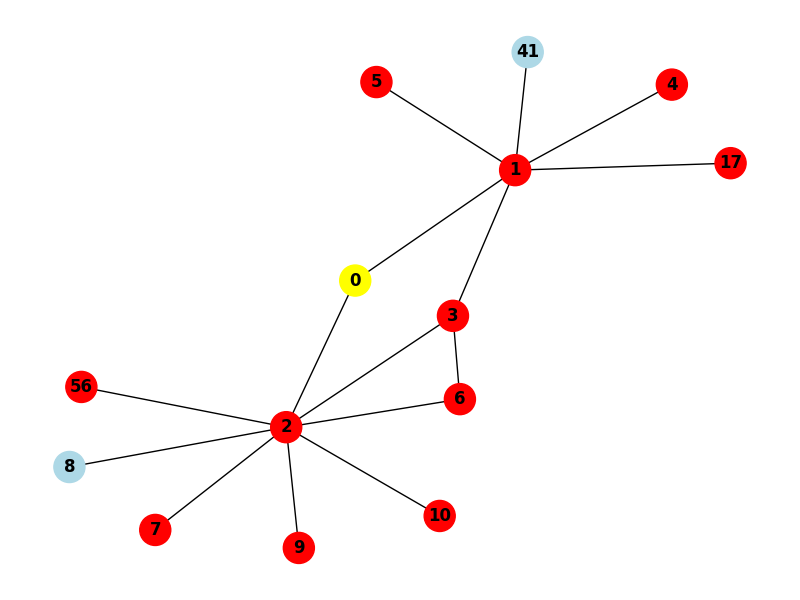
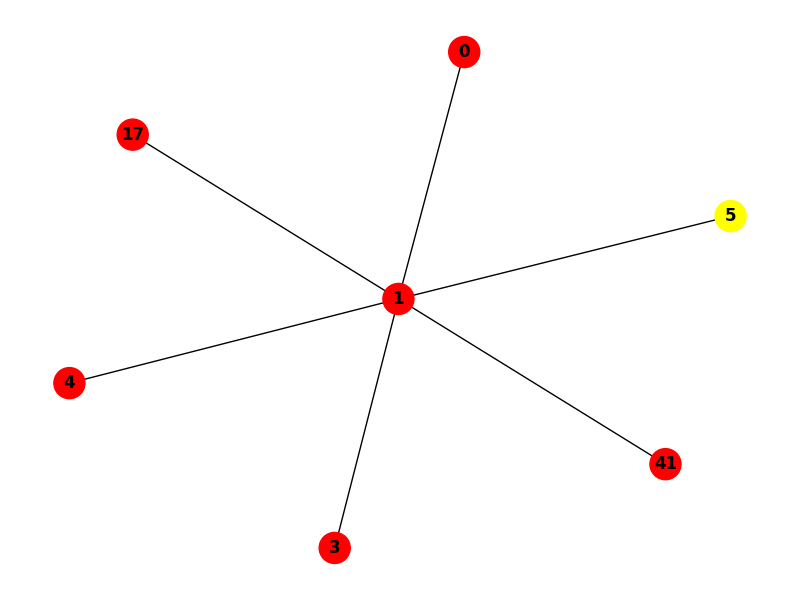
explicação apenas da mascara de teste

diff --git a/main.py b/main.py
@@ -1,7 +1,8 @@
 import pandas as pd
 import os
-from dataset_loader.load_dataset import load_dataset
+from dataset_loader.load_dataset import load_dataset, filter_explanation_by_mask
 from torch_geometric.datasets import TUDataset
+from torch_geometric.data import Data
 from torch_geometric.explain.metric import groundtruth_metrics
 from model.gcn import GCN
 from model.trainer import optimize_hyperparameters, train_one_model, get_model_checkpoint, save_model_checkpoint
@@ -16,21 +17,25 @@ import torch.nn.functional as F
 import torch
 
 # ========= Load Dataset =========
-# names: PubMed, CiteSeer, KarateClub, Mutag, Cora, synthetic
-dataset_name = "synthetic"
+# names: PubMed, CiteSeer, KarateClub, Mutag, Cora, synthetic, shapeggen
+dataset_name = "shapeggen"
 dataset, data = load_dataset(dataset_name)
+print(data)
 
 node_mask_type = "attributes"
 target = None
 explanation_type = "model"
 if explanation_type == "phenomenon":
     target = data.y
+index = 0
 
 # Model type: gcn or gatconv
 model_type = "gcn"
 
 # ========= Build & train model =========
-model, model_params = get_model_checkpoint(model_type, dataset_name, data.num_features, dataset.num_classes) if dataset_name != "synthetic" else (None, None)
+# model, model_params = get_model_checkpoint(model_type, dataset_name, data.num_features, dataset.num_classes) if dataset_name != "synthetic" else (None, None)
+model, model_params = None, None
+
 
 if model is None:
     print("Checkpoint não encontrado. Treinando modelo com melhores parâmetros...", flush=True)
@@ -52,8 +57,9 @@ else:
 print("\nGerando explicações...", flush=True)
 
 results = {}
-subgraph = data
-centralities = get_centralities(subgraph)
+subgraph = filter_explanation_by_mask(data, data.test_mask)
+print(subgraph)
+# centralities = get_centralities(subgraph)
 
 def calculate_metrics(explanation, centralities, subgraph, results, prefix):
     node_imp = filtered_node_importance(explanation, subgraph)
@@ -84,7 +90,7 @@ for i in range(1):
                                     node_mask_type=node_mask_type, 
                                     num_layers=model_params['layers'])
 
-    it_explanation = gnn_explainer(data.x, data.edge_index, index=None, target=target)
+    it_explanation = gnn_explainer(subgraph.x, subgraph.edge_index, index=None, target=target)
     
     metrics = get_fidelity_metrics(it_explanation, gnn_explainer)
     
@@ -96,29 +102,32 @@ for i in range(1):
         gnn_explainer_explanation = it_explanation
 
 # ========= Ground Truth Comparison =========
-if dataset_name == "synthetic" and gnn_explainer_explanation is not None:
+if dataset_name == "shapeggen" and gnn_explainer_explanation is not None:
     print("Calculando métricas de Ground Truth...", flush=True)
     
     # Se a máscara for de atributos (node_mask_type="attributes"), 
     # precisamos reduzir para nível de nó para comparar com o Ground Truth
-    node_mask = gnn_explainer_explanation.node_mask
-    if node_mask is not None and node_mask.dim() > 1:
-        node_mask = node_mask.mean(dim=-1)
+    explanation_node_mask = gnn_explainer_explanation.node_mask
+    gt_node_mask = subgraph.shape
+    if explanation_node_mask is not None and explanation_node_mask.dim() > 1:
+        explanation_node_mask = explanation_node_mask.mean(dim=-1)
     
-    gt_metrics = groundtruth_metrics(node_mask, data.node_mask)
+    gt_metrics = groundtruth_metrics(explanation_node_mask, gt_node_mask)
     print("Métricas de Ground Truth:", gt_metrics)
     
     # groundtruth_metrics retorna (accuracy, recall, precision, f1, auc)
-    acc, recall, prec, f1, auc = gt_metrics
+    acc, recall, prec, f1, auc, jaccard = gt_metrics
     results["gnn_gt_accuracy"] = acc
     results["gnn_gt_recall"] = recall
     results["gnn_gt_precision"] = prec
     results["gnn_gt_f1"] = f1
     results["gnn_gt_auc"] = auc
+    results["gnn_gt_jaccard"] = jaccard
 else:
     gt_metrics = None
 
-calculate_metrics(gnn_explainer_explanation, centralities, subgraph, results, "gnn")
+
+# calculate_metrics(gnn_explainer_explanation, centralities, subgraph, results, "gnn")
 
 # 2. PGExplainer
 # print("Running PGExplainer...", flush=True)
@@ -157,41 +166,41 @@ calculate_metrics(gnn_explainer_explanation, centralities, subgraph, results, "g
 # PGexplainer
 
 # Save results
-df = pd.DataFrame(results).T
-print("\n📊 Correlações & MI:", flush=True)
-print(df.round(4), flush=True)
+# df = pd.DataFrame(results).T
+# print("\n📊 Correlações & MI:", flush=True)
+# print(df.round(4), flush=True)
 
-results_base_folder = f"results/{dataset_name}"
-os.makedirs(results_base_folder, exist_ok=True)
+# results_base_folder = f"results/{dataset_name}"
+# os.makedirs(results_base_folder, exist_ok=True)
 
-# Generate unique run folder
-run_id = 1
-while True:
-    run_folder_name = f"run_{run_id:03d}"
-    run_folder_path = os.path.join(results_base_folder, run_folder_name)
-    if not os.path.exists(run_folder_path):
-        os.makedirs(run_folder_path)
-        break
-    run_id += 1
+# # Generate unique run folder
+# run_id = 1
+# while True:
+#     run_folder_name = f"run_{run_id:03d}"
+#     run_folder_path = os.path.join(results_base_folder, run_folder_name)
+#     if not os.path.exists(run_folder_path):
+#         os.makedirs(run_folder_path)
+#         break
+#     run_id += 1
 
-filename = f"correlations.csv"
-file_path = os.path.join(run_folder_path, filename)
+# filename = f"correlations.csv"
+# file_path = os.path.join(run_folder_path, filename)
 
-# Save
-df.to_csv(file_path, index=True)
-print("Salvo em:", file_path)
+# # Save
+# df.to_csv(file_path, index=True)
+# print("Salvo em:", file_path)
 
-with open(f"{run_folder_path}/fidelity.txt", "w") as f:
-    if gnn_explainer_fidelity_metrics:
-        for key, value in gnn_explainer_fidelity_metrics.items():
-            print(f"{key}: {value}", file=f)
-    # if gt_metrics:
-    #     print("\n--- Ground Truth Metrics ---", file=f)
-    #     for key, value in gt_metrics.items():
-    #         print(f"{key}: {value}", file=f)
-with open(f"{run_folder_path}/parameters.txt", "w") as f:
-    print(f"epochs: {gnn_explainer_epochs}", file=f)
-    print(f"lr: {gnn_explainer_lr}", file=f)
-    print(f"explanation_type: {explanation_type}", file=f)
-    print(f"model_type: {model_type}", file=f)
-    print(f"model_params: {model_params}", file=f)
+# with open(f"{run_folder_path}/fidelity.txt", "w") as f:
+#     if gnn_explainer_fidelity_metrics:
+#         for key, value in gnn_explainer_fidelity_metrics.items():
+#             print(f"{key}: {value}", file=f)
+#     # if gt_metrics:
+#     #     print("\n--- Ground Truth Metrics ---", file=f)
+#     #     for key, value in gt_metrics.items():
+#     #         print(f"{key}: {value}", file=f)
+# with open(f"{run_folder_path}/parameters.txt", "w") as f:
+#     print(f"epochs: {gnn_explainer_epochs}", file=f)
+#     print(f"lr: {gnn_explainer_lr}", file=f)
+#     print(f"explanation_type: {explanation_type}", file=f)
+#     print(f"model_type: {model_type}", file=f)
+#     print(f"model_params: {model_params}", file=f)

diff --git a/main0604.py b/main0604.py
@@ -1,6 +1,6 @@
 import pandas as pd
 import os
-from dataset_loader.load_dataset import load_dataset
+from dataset_loader.load_dataset import load_dataset, filter_explanation_by_mask
 from torch_geometric.datasets import TUDataset
 from torch_geometric.explain.metric import groundtruth_metrics
 from model.gcn import GCN
@@ -61,7 +61,10 @@ else:
 def visualize_subgraph(subgraph_data, target_index, node_importance, title, filename, threshold=0.1):
     # Print nodes and edges
     print(f"\n--- {title} ---")
-    nodes = subgraph_data.node_idx_original.tolist()
+    if hasattr(subgraph_data, 'node_idx_original'):
+        nodes = subgraph_data.node_idx_original.tolist()
+    else:
+        nodes = list(range(subgraph_data.num_nodes))
     print(f"Nodes ({len(nodes)}): {nodes}")
     
     # Get edges
@@ -81,13 +84,15 @@ def visualize_subgraph(subgraph_data, target_index, node_importance, title, file
     pos = nx.spring_layout(G, seed=42)
     
     node_colors = []
-    for node in nodes:
+    for i, node in enumerate(nodes):
         if node == target_index:
             node_colors.append('yellow')
-        elif node_importance[node] > threshold:
-            node_colors.append('red')
         else:
-            node_colors.append('lightblue')
+            val = node_importance[i] if len(node_importance) == len(nodes) else node_importance[node]
+            if val > threshold:
+                node_colors.append('red')
+            else:
+                node_colors.append('lightblue')
             
     plt.figure(figsize=(8, 6))
     nx.draw(G, pos, with_labels=True, node_color=node_colors, node_size=500, font_weight='bold')
@@ -100,8 +105,11 @@ def visualize_subgraph(subgraph_data, target_index, node_importance, title, file
 print("\nGerando explicações...", flush=True)
 
 results = {}
-subgraph = data
-centralities = get_centralities(subgraph)
+test_indices = data.test_mask.nonzero(as_tuple=True)[0]
+data_test = data
+# centralities = get_centralities(data_test)
+if index == 0 and len(test_indices) > 0:
+    index = test_indices[0].item()
 
 def calculate_metrics(explanation, centralities, subgraph, results, prefix):
     node_imp = filtered_node_importance(explanation, subgraph)
@@ -122,7 +130,8 @@ gnn_explainer_gt_metrics = None
 gnn_explainer_characterization_score = -1
 gnn_explainer_epochs = 500
 gnn_explainer_lr = 0.01
-shape_vector = (data.shape > 0).int() if getattr(data, "shape", None) is not None else None
+shape_vector = (data_test.shape > 0).int() if getattr(data_test, "shape", None) is not None else None
+
 for i in range(1):
     print(f"Rodando GNNExplainer {i+1}...", flush=True)
     gnn_explainer = get_explainer(  model,
@@ -135,7 +144,7 @@ for i in range(1):
                                     edge_mask_type=edge_mask_type,
                                     num_layers=model_params['layers'])
 
-    it_explanation = gnn_explainer(data.x, data.edge_index, index=index, target=target)
+    it_explanation = gnn_explainer(data_test.x, data_test.edge_index, index=index, target=target)
     metrics = get_fidelity_metrics(it_explanation, gnn_explainer)
     
     # print("Métricas do GNNExplainer:", metrics)
@@ -151,39 +160,37 @@ print("Melhor GNNExplainer:", gnn_explainer_fidelity_metrics)
 # print(gnn_explainer_explanation.node_mask.flatten())
 # print("Melhor GNNExplainer GT:", gnn_explainer_gt_metrics)
 
-prediction_vector = gnn_explainer_explanation.node_mask.flatten().detach().cpu()
-prediction_vector = (prediction_vector > 0).float().numpy()
+node_mask = gnn_explainer_explanation.node_mask
+if node_mask is not None and node_mask.dim() > 1:
+    node_mask = node_mask.mean(dim=-1)
+prediction_vector = node_mask.detach().cpu()
+prediction_vector_np = (prediction_vector).float().numpy()
 shape_vector_np = shape_vector.detach().cpu().numpy()
-# print(prediction_vector)
-# print(shape_vector_np)
+visual_graph = data_test
 
 if index is not None:
-    gt_subgraph = get_khop_subgraph(data, index, num_hops=model_params['layers'], relabel_nodes=False)
-    # print(gt_subgraph.node_idx_original)
-    #subgraph = gnn_explainer_explanation.get_explanation_subgraph()
+    gt_subgraph = get_khop_subgraph(data_test, index, num_hops=model_params['layers'], relabel_nodes=False)
+    prediction_vector_np = prediction_vector_np[gt_subgraph.node_idx_original]
+    print(prediction_vector_np)
 
-    prediction_vector_sub = prediction_vector[gt_subgraph.node_idx_original]
-    shape_vector_sub = shape_vector_np[gt_subgraph.node_idx_original]
+    shape_vector_np = shape_vector_np[gt_subgraph.node_idx_original]
+    visual_graph = gt_subgraph
 
-
-    print(prediction_vector_sub)
-    print(shape_vector_sub)
-
-    gnn_explainer_gt_metrics = groundtruth_metrics(
-        torch.tensor(prediction_vector_sub), 
-        torch.tensor(shape_vector_sub)
-    )
-    print(gnn_explainer_gt_metrics)
+gnn_explainer_gt_metrics = groundtruth_metrics(
+    torch.tensor(prediction_vector_np), 
+    torch.tensor(shape_vector_np)
+)
+print("Métricas de Ground Truth:", gnn_explainer_gt_metrics)
 
     # Visualization
-    visualize_subgraph(gt_subgraph, index, shape_vector_np, "Ground Truth Subgraph", "gt_subgraph.png", threshold=0.0)
-    visualize_subgraph(gt_subgraph, index, prediction_vector, "Explanation Subgraph", "expl_subgraph.png", threshold=0.1)
+visualize_subgraph(visual_graph, index, shape_vector_np, "Ground Truth Subgraph", "gt_subgraph.png", threshold=0.0)
+visualize_subgraph(visual_graph, index, prediction_vector_np, "Explanation Subgraph", "expl_subgraph.png", threshold=0.01)
 
-    print("Quantidade de nós importantes preditos no subgrafo:", prediction_vector_sub.sum())
-    print("Quantidade de nós importantes no subgrafo real:", shape_vector_sub.sum())
+    # print("Quantidade de nós importantes preditos no subgrafo:", prediction_vector_sub.sum())
+    # print("Quantidade de nós importantes no subgrafo real:", shape_vector_sub.sum())
 
-    print("proporção de nós importantes preditos no subgrafo:", prediction_vector_sub.sum() / len(shape_vector_sub))
-    print("proporção de nós importantes no subgrafo real:", shape_vector_sub.sum() / len(shape_vector_sub))
+    # print("proporção de nós importantes preditos no subgrafo:", prediction_vector_sub.sum() / len(shape_vector_sub))
+    # print("proporção de nós importantes no subgrafo real:", shape_vector_sub.sum() / len(shape_vector_sub))
 
 
 

diff --git a/dataset_loader/load_dataset.py b/dataset_loader/load_dataset.py
@@ -1,5 +1,6 @@
 import os.path as osp
 import torch
+from torch_geometric.data import Data
 from torch_geometric.datasets import KarateClub, Planetoid, TUDataset, ExplainerDataset
 from torch_geometric.datasets.graph_generator import BAGraph
 from torch_geometric.datasets.motif_generator import HouseMotif, CycleMotif
@@ -88,3 +89,51 @@ def synthetic_dataset():
         data.test_mask[indices[int(0.8 * num_nodes):]] = True
 
     return dataset, data
+
+
+def filter_explanation_by_mask(exp, mask):
+    """
+    Filtra um grafo/explanation pelo mask de nós e retorna um Data limpo.
+    """
+
+    mask = mask.bool()
+    num_nodes = mask.size(0)
+
+    # -------------------------
+    # 1. Mapear nós antigos -> novos índices
+    # -------------------------
+    old_to_new = -torch.ones(num_nodes, dtype=torch.long)
+    old_to_new[mask] = torch.arange(mask.sum())
+
+    # -------------------------
+    # 2. Filtrar nós
+    # -------------------------
+    x = exp.x[mask] if hasattr(exp, "x") else None
+    y = exp.y[mask] if hasattr(exp, "y") else None
+
+    # -------------------------
+    # 3. Filtrar arestas (ambos nós precisam estar no mask)
+    # -------------------------
+    src, dst = exp.edge_index
+    edge_keep = mask[src] & mask[dst]
+
+    edge_index = exp.edge_index[:, edge_keep]
+    edge_index = old_to_new[edge_index]
+
+    # -------------------------
+    # 4. Criar Data final
+    # -------------------------
+    data = Data(
+        x=x,
+        edge_index=edge_index,
+        y=y
+    )
+
+    # -------------------------
+    # 5. Copiar masks se existirem
+    # -------------------------
+    for attr in ["train_mask", "val_mask", "valid_mask", "test_mask", "shape"]:
+        if hasattr(exp, attr):
+            data[attr] = getattr(exp, attr)[mask]
+
+    return data

diff --git a/explainer/gnn_explainer_wrapper.py b/explainer/gnn_explainer_wrapper.py
@@ -46,7 +46,7 @@ def get_explainer(model, data, node_index=None,
         model_config=dict(
             mode='multiclass_classification',
             task_level=task_level,
-            return_type='raw',
+            return_type='log_probs',
         )
     )
 
